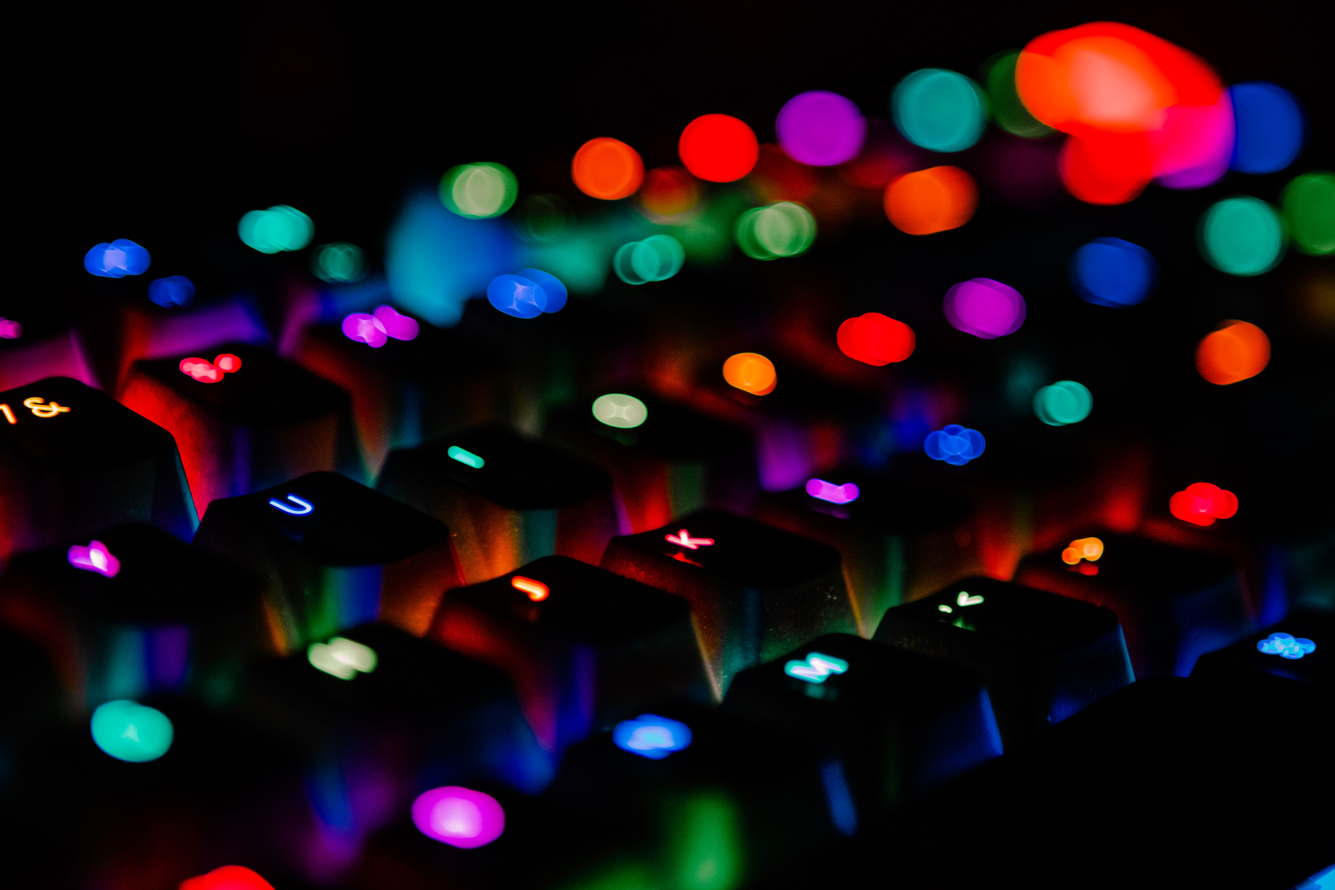
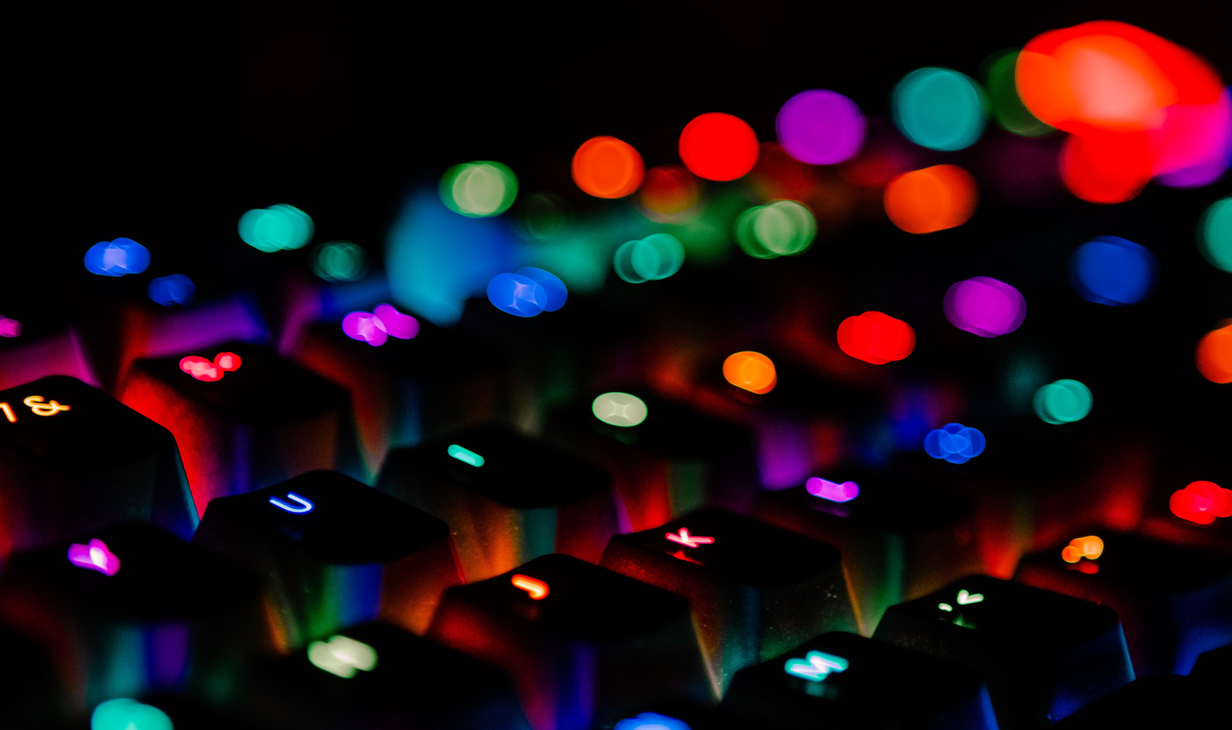
feat: font + navbar + updates

diff --git a/src/components/NavBar/NavigationBar.css b/src/components/NavBar/NavigationBar.css
@@ -1,28 +1,52 @@
+ul {
+  padding: 0;
+  list-style: none;
+  display: table;
+  width: 600px;
+  text-align: center;
+}
+
 li {
-  list-style-type: none;
-  padding-left: 25px;
-  padding-right: 25px;
-  color: var(--primary);
+  display: table-cell;
+  position: relative;
+  padding: 15px 0;
+}
+a {
+  color: #fff;
+  text-transform: uppercase;
+  text-decoration: none;
+  letter-spacing: 0.15em;
+
+  display: inline-block;
+  padding: 15px 20px;
+  position: relative;
+}
+a:after {
+  background: none repeat scroll 0 0 transparent;
+  bottom: 0;
+  content: "";
+  display: block;
+  height: 2px;
+  left: 50%;
+  position: absolute;
+  background: #fff;
+  transition: width 0.3s ease 0s, left 0.3s ease 0s;
+  width: 0;
+}
+a:hover:after {
+  width: 100%;
+  left: 0;
+}
+@media screen and (max-height: 300px) {
+  ul {
+    margin-top: 40px;
+  }
 }
 
 .navbar {
-  padding-top: 15px;
-  background-color: var(--background);
-  font-size: 25px;
-}
-
-.right-element {
-  display: flex;
-  flex-direction: row;
-  justify-content: flex-start;
-  align-items: flex-start;
-  padding-right: 25px;
-}
-
-.left-element {
-  display: flex;
-  flex-direction: row;
-  justify-content: flex-start;
-  align-items: flex-end;
-  padding-left: 25px;
+  font-size: 18px;
+  color: #fff;
+  margin-bottom: 2rem;
+  justify-content: space-between;
+  align-items: center;
 }

diff --git a/src/pages/Home/components/description/Description.tsx b/src/pages/Home/components/description/Description.tsx
@@ -1,8 +1,16 @@
+import "./Description.css";
+
 const Description = () => {
   return (
-    <div className="description">
-      <h1>Hi there !</h1>
-      <h2>Paragraphe 1</h2>
+    <div className="text-layout">
+      <h2 className="text-item">HI THERE !</h2>
+      <h1 className="text-item">
+        I'm Jules <b>Lagny</b>
+      </h1>
+      <p className="text-item">
+        I'm fullstack developer with over 3+ years of experience.
+        <br /> I have a passion for technologies arround JS and TS
+      </p>
     </div>
   );
 };

diff --git a/src/pages/Home/Home.tsx b/src/pages/Home/Home.tsx
@@ -5,13 +5,11 @@ import HomePicture from "./components/home-picture/HomePicture";
 const Home = () => {
   return (
     <div className="container">
-      <div className="d-flex flex-row">
-        <div className="col-4 center">
-          <HomePicture />
-        </div>
-        <div className="col-8 center">
-          <Description />
-        </div>
+      <div className="item col-4">
+        <HomePicture />
+      </div>
+      <div className="item col-8 ">
+        <Description />
       </div>
     </div>
   );

diff --git a/src/App.css b/src/App.css
@@ -1,23 +1,5 @@
 body {
-  font-family: "Franklin Gothic Medium", "Arial Narrow", Arial, sans-serif;
-  background-image: url("/public/keyboard6.jpg");
+  background-image: url("/public/keyboard1.jpg");
   background-repeat: no-repeat;
   background-size: cover;
-}
-
-h1 {
-  font-size: 2.5rem;
-  text-align: center;
-  color: var(--primary);
-}
-
-h2 {
-  font-size: 2rem;
-  text-align: center;
-  color: var(--primary);
-}
-
-:root {
-  --primary: #feffff;
-  --background: #3aafa9;
 }

diff --git a/src/App.tsx b/src/App.tsx
@@ -1,10 +1,11 @@
 import "./App.css";
+import NavigationBar from "./components/navbar/NavigationBar";
 import Home from "./pages/home/Home";
 
 function App() {
   return (
     <div className="app">
-      {/* <NavBar /> */}
+      <NavigationBar />
       <Home />
       {/* <footer className="blockquote-footer">
         Someone famous in <cite title="Source Title">Source Title</cite>

diff --git a/src/pages/Home/components/description/Description.css b/src/pages/Home/components/description/Description.css
@@ -1,3 +1,25 @@
-.description {
+.text-layout {
+  position: relative;
+  display: flex;
+  flex-direction: column;
+  justify-content: space-around;
   color: white;
+  padding-left: 5rem;
+  margin: 5rem;
+}
+
+.text-item {
+  align-items: stretch;
+}
+
+h1 {
+  font-size: 35px;
+}
+
+h2 {
+  font-size: 30px;
+}
+
+p {
+  font-size: 25px;
 }

diff --git a/src/pages/Home/Home.css b/src/pages/Home/Home.css
@@ -1,14 +1,12 @@
 .container {
   position: relative;
+  display: flex;
+  flex-direction: row;
+  justify-content: center;
+  align-items: stretch;
 }
 
-.center {
-  position: absolute;
-  top: 20vh;
-}
-
-.left-center {
-  position: absolute;
-  top: 20vh;
-  left: 10vw;
+.item {
+  position: relative;
+  top: 25vh;
 }

diff --git a/src/pages/Home/components/home-picture/HomePicture.css b/src/pages/Home/components/home-picture/HomePicture.css
@@ -18,5 +18,5 @@
 
 .img-zoom:hover {
   filter: grayscale(0%);
-  transform: scale(1.2);
+  transform: scale(1.5) rotate(360deg);
 }

diff --git a/src/index.css b/src/index.css
@@ -1,3 +1,5 @@
+@import "@fontsource/dosis";
+
 body {
-  font-family: "Roboto", sans-serif;
+  font-family: "Dosis", sans-serif;
 }
